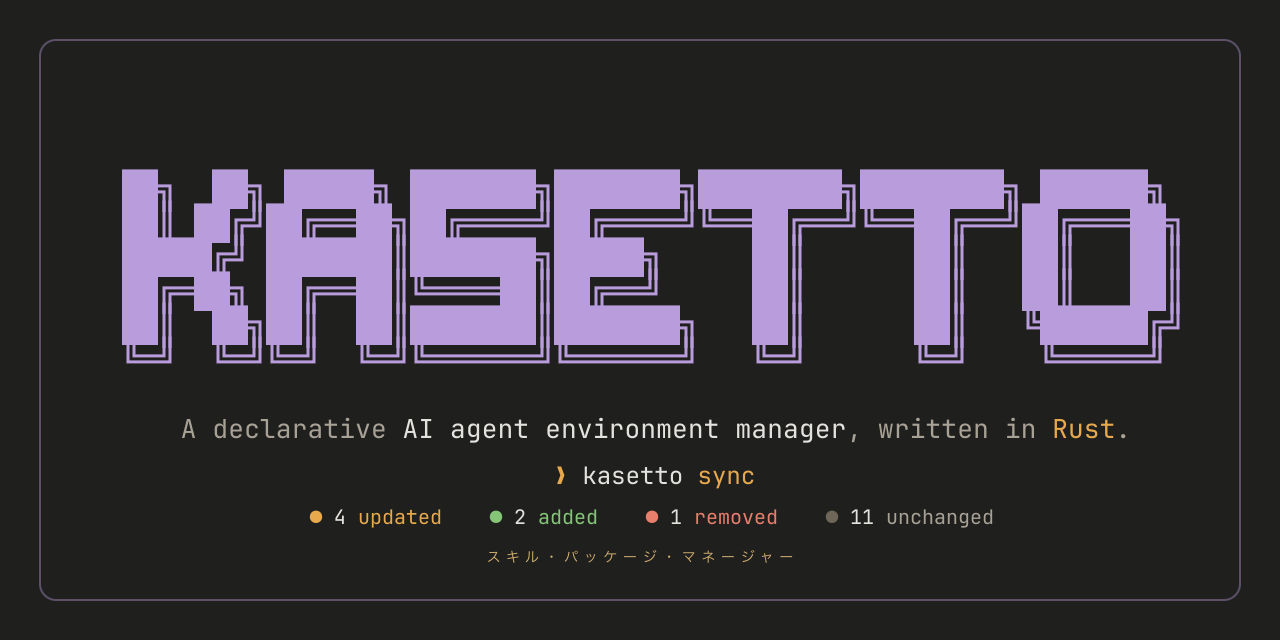
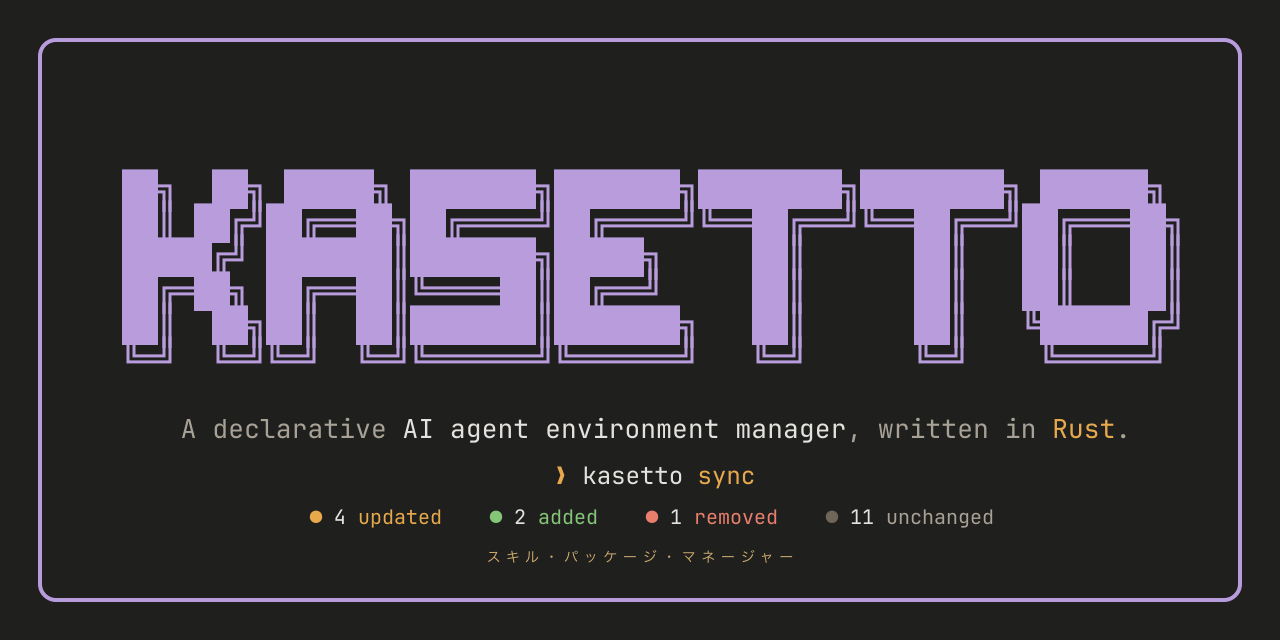
design(site): draw the card frame solid at 4px
Match the logo's border weight; the translucent 2px hairline read as an
artifact at share-card sizes.

diff --git a/site/app/opengraph-image.tsx b/site/app/opengraph-image.tsx
@@ -13,7 +13,6 @@ const BG = "#1f1f1e"; // popil base
 const FG = "#e4e2de"; // popil text
 const MUTED = "#a8a195"; // CLI SECONDARY
 const LAVENDER = "#b89cdc"; // CLI BRAND
-const FRAME = "rgba(184, 156, 220, 0.4)"; // LAVENDER at the card's frame opacity
 const ACCENT_WARM = "#e8a94d"; // CLI ATTENTION
 const ADDED = "#84c578"; // CLI SUCCESS
 const REMOVED = "#e87e6c"; // CLI ERROR
@@ -77,7 +76,7 @@ export default function OpengraphImage() {
           left: 38,
           width: size.width - 76,
           height: size.height - 76,
-          border: `2px solid ${FRAME}`,
+          border: `4px solid ${LAVENDER}`,
           borderRadius: 15,
           display: "flex",
         }}
